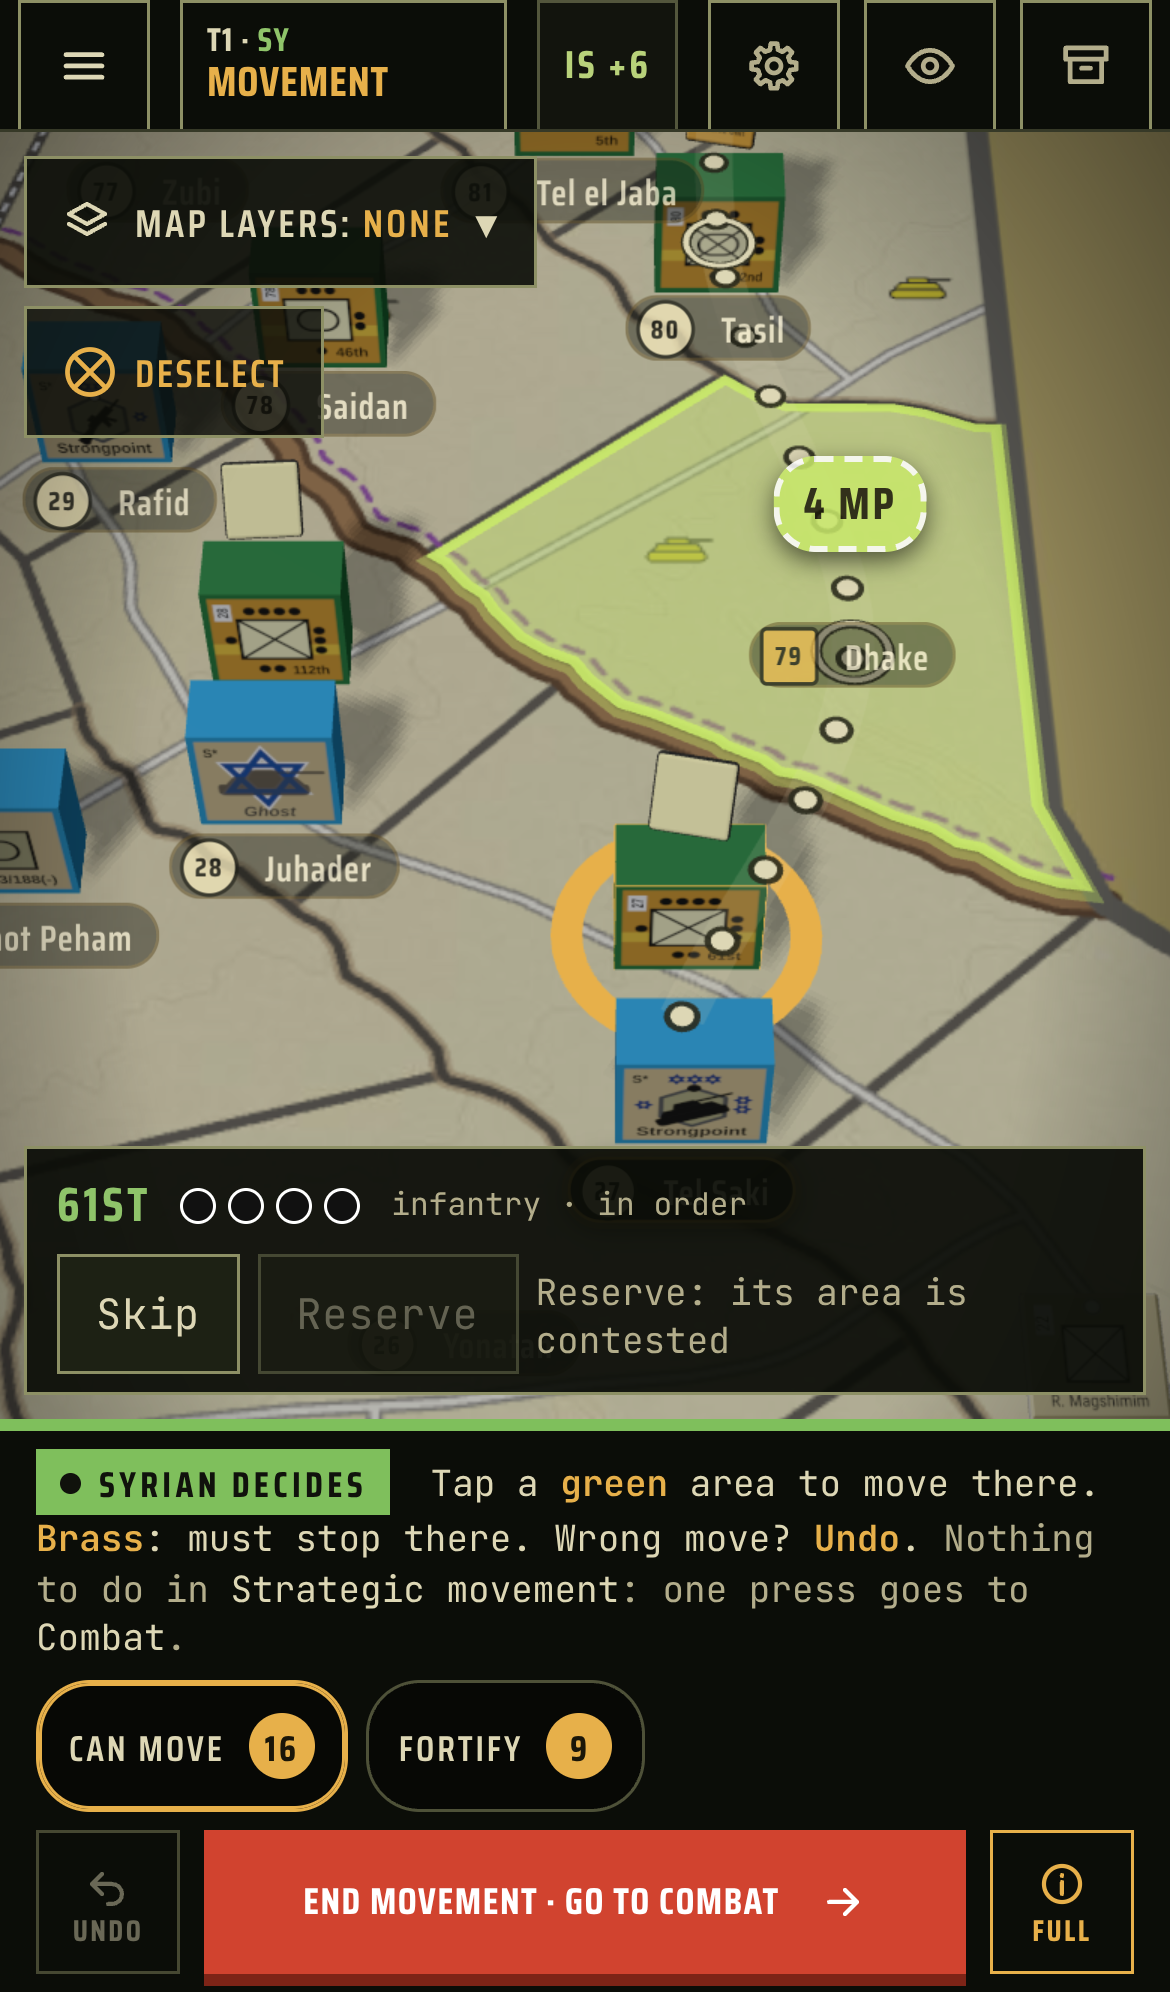
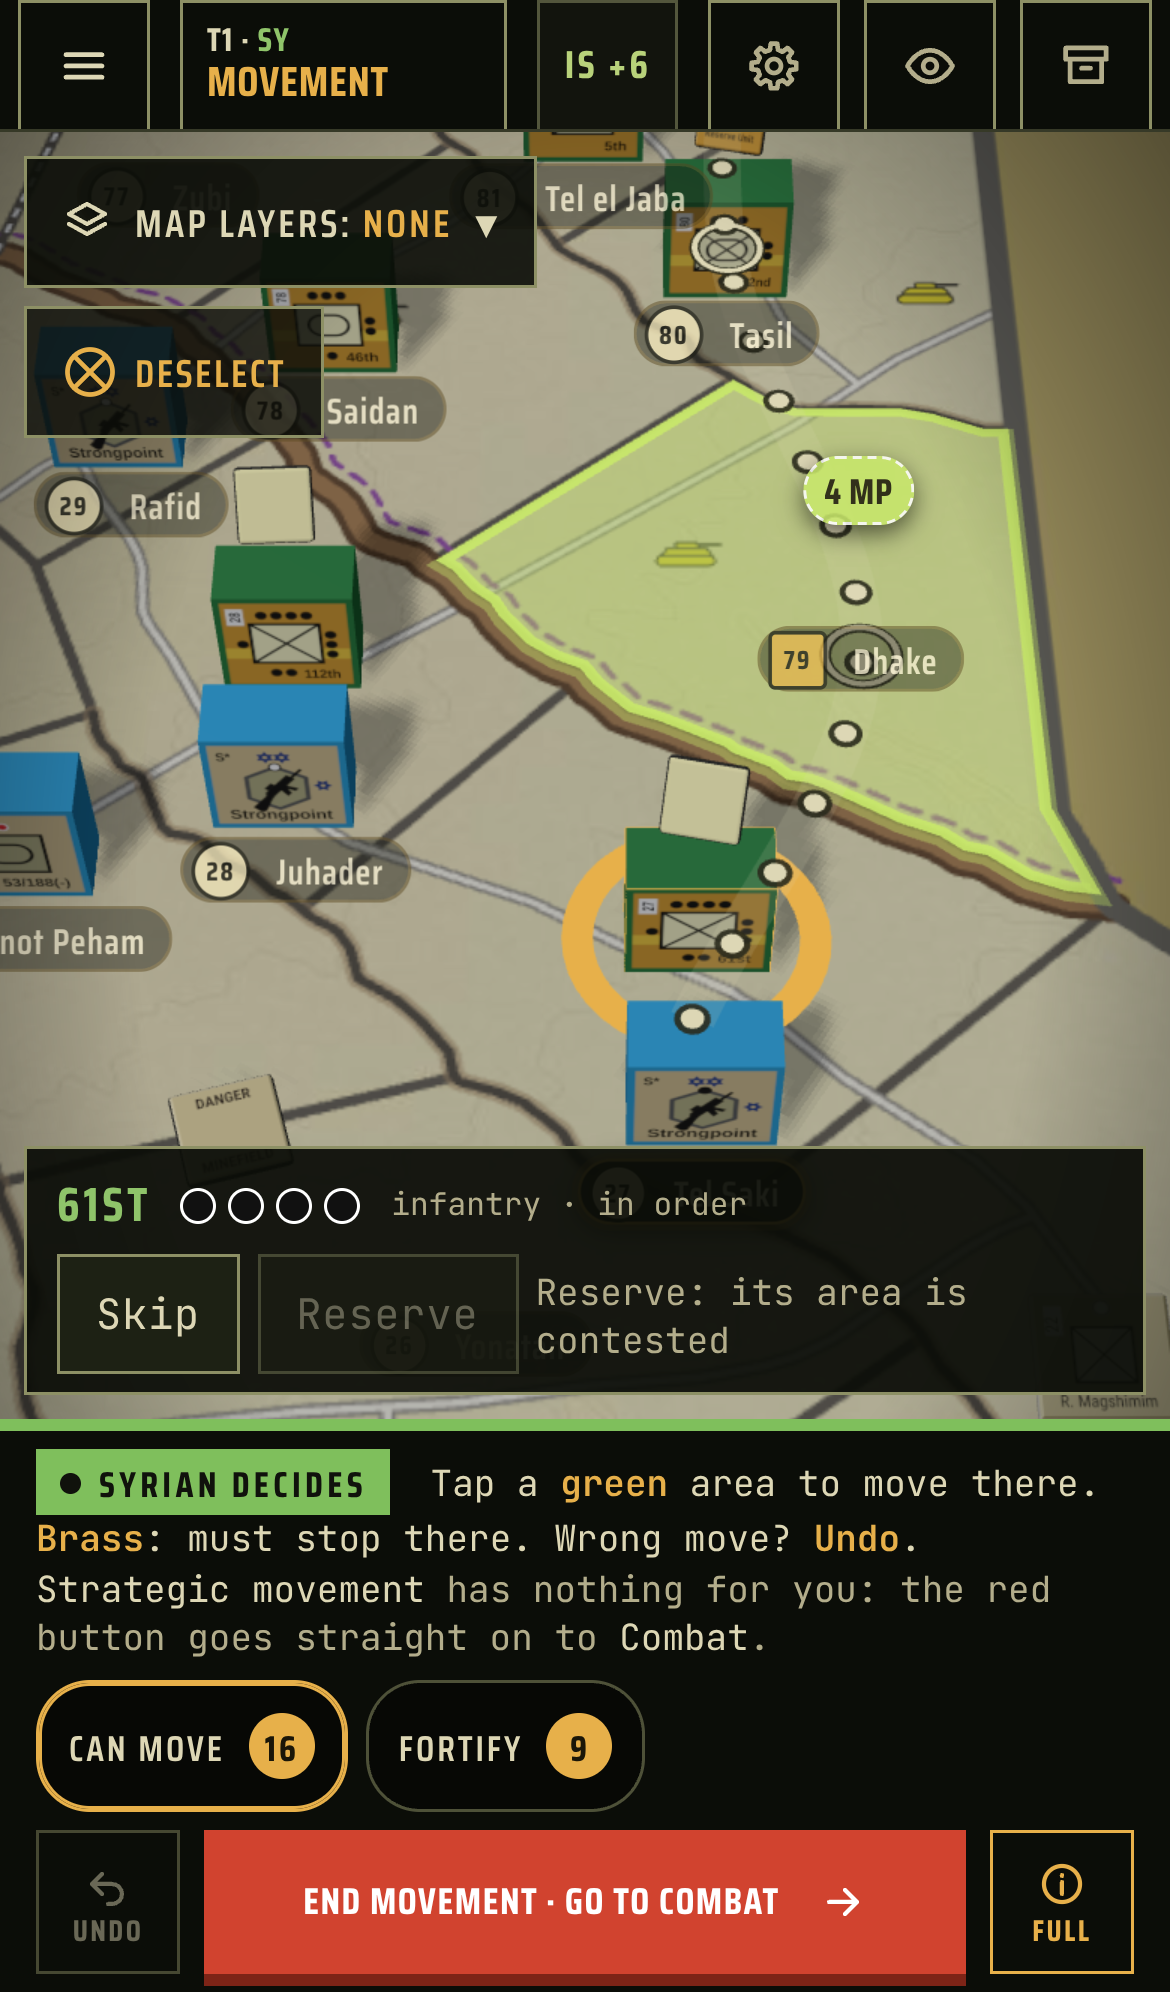
Phone fixes after the PM's check: card (i) small on the card's left edge with a 44 px tap area (it covered the picture and name); move cost badges smaller, side by side instead of piled up, kept on screen above the block card; messages on the phone are one line that fades (three cards covered Golan'
Claude-Session: https://claude.ai/code/session_01ME3JNWPCjyD5txMyWoKnu2

diff --git a/web/src/map-marks.ts b/web/src/map-marks.ts
@@ -712,7 +712,9 @@ export function placeBadges() {
   placeBubbles();
   const r = canvas.getBoundingClientRect(),
     v = new THREE.Vector3();
-  const dockBottom = (document.querySelector('#ui .mapdock')?.getBoundingClientRect().bottom ?? r.top) - r.top; // the Layer bar and map tools: move badges stay below them
+  const dockBottom = (document.querySelector('#ui .mapdock')?.getBoundingClientRect().bottom ?? r.top) - r.top, // the Layer bar and map tools: move badges stay below them
+    cardTop = innerWidth < 700 ? (document.querySelector('#ui .c-dispatch')?.getBoundingClientRect().top ?? r.bottom) - r.top : r.height, // and, on the phone, above the block card
+    placed: { x0: number; x1: number; y0: number; y1: number }[] = [];
   for (const [k, d] of badgeEls) {
     const id = +k.replace(/^[LS]/, ''),
       p = d.classList.contains('lab')
@@ -731,9 +733,37 @@ export function placeBadges() {
       hh = d.offsetHeight / 2 + 6,
       out = sx < hw || sx > r.width - hw || sy < hh || sy > r.height - hh;
     if (keep) {
-      const top = Math.max(hh, dockBottom + hh);
+      const top = Math.max(hh, dockBottom + hh),
+        bot = Math.min(r.height, cardTop) - hh;
       sx = Math.min(r.width - hw, Math.max(hw, sx));
-      sy = Math.min(r.height - hh, Math.max(top, sy));
+      sy = Math.min(bot, Math.max(top, sy));
+      const w = hw - 4,
+        h = hh - 4,
+        hit = (x: number, y: number) => placed.some((o) => x - w < o.x1 && x + w > o.x0 && y - h < o.y1 && y + h > o.y0),
+        fits = (x: number, y: number) => y >= top && y <= bot && x >= hw && x <= r.width - hw && !hit(x, y);
+      let free = fits(sx, sy);
+      for (const [ex, ey] of [
+        [0, 1],
+        [0, -1],
+        [1, 0],
+        [-1, 0],
+        [0, 2],
+        [0, -2],
+        [1, 1],
+        [-1, 1],
+        [1, -1],
+        [-1, -1],
+      ])
+        if (!free && fits(sx + ex * 2 * w, sy + ey * 2 * h)) {
+          sx += ex * 2 * w;
+          sy += ey * 2 * h;
+          free = true;
+        } // neighbouring areas' badges sit side by side instead of piling up (design review 16 Nov, phone)
+      if (!free && out && innerWidth < 700) {
+        d.style.display = 'none';
+        continue;
+      } // phone: an off-screen destination with no room left at the edge is not drawn (its area is still green)
+      placed.push({ x0: sx - w, x1: sx + w, y0: sy - h, y1: sy + h });
       d.classList.toggle('edge', out || sy !== sy0);
     } // a destination off screen keeps its tag at the edge, so no "no supply" warning is missed
     d.style.transform = `translate(${sx}px, ${sy}px) translate(-50%, -50%)`;

diff --git a/web/src/css/bottom-bar.css b/web/src/css/bottom-bar.css
@@ -571,14 +571,21 @@
     padding: 0 12px;
   }
 }
-/* phone hand: the card's (i) inside its bottom-left corner, 32 px, where the next card in the fan does not cover it (design review 16 Nov) */
+/* phone hand: the card's (i) small on its left edge under the "S", clear of the symbol and the name and never under the next card
+   (it overlaps a card's right side); an invisible 44 px tap area around it (design review 16 Nov) */
 @media (max-width: 700px) {
   #ui .card2 .cinfo {
-    left: 3px;
+    left: 1px;
     right: auto;
-    bottom: 3px;
-    width: 32px;
-    height: 32px;
-    font-size: 16px;
+    top: 24px;
+    bottom: auto;
+    width: 22px;
+    height: 22px;
+    font-size: 12px;
+  }
+  #ui .card2 .cinfo::before {
+    content: '';
+    position: absolute;
+    inset: -11px;
   }
 }

diff --git a/web/src/choices.ts b/web/src/choices.ts
@@ -41,7 +41,7 @@ export function feedHtml(): string {
       if (feed.some((f) => Date.now() - f.t >= 9000)) render();
     }, 9100);
   return feed.length
-    ? `<div class="feed ${g.phase === 'admin' || g.phase === 'reinforcement' ? 'top' : ''}" aria-live="polite">${feed.map((f) => `<div class="fl2 ${f.side}" style="animation-delay:${-(now - f.t) / 1000}s">${sideTag(f.text)}</div>`).join('')}</div>`
+    ? `<div class="feed ${g.phase === 'admin' || g.phase === 'reinforcement' ? 'top' : ''}" aria-live="polite">${(innerWidth < 700 ? feed.slice(-1) : feed).map((f) => `<div class="fl2 ${f.side}" style="animation-delay:${-(now - f.t) / 1000}s">${sideTag(f.text)}</div>`).join('')}</div>`
     : '';
 }
 export let scoreOpen = false,

diff --git a/web/src/css/bars.css b/web/src/css/bars.css
@@ -250,6 +250,9 @@
   .feed .fl2 {
     font-size: 11.5px;
     padding: 3px 8px;
+    white-space: nowrap;
+    overflow: hidden;
+    text-overflow: ellipsis; /* one short line that fades, never a card over the map (design review 16 Nov; owner, 15 Nov) */
   }
 }
 .rdet {
@@ -423,5 +426,16 @@
     min-height: 36px;
     padding: 4px 12px;
     font-size: 13px;
+  }
+}
+/* phone: smaller move badges, so neighbouring areas' costs fit side by side (design review 16 Nov) */
+@media (max-width: 700px) {
+  #badges .bdg.ok,
+  #badges .bdg.stop,
+  #badges .bdg.fuel {
+    padding: 1px 6px;
+    font-size: 12px;
+    letter-spacing: 0.02em;
+    border-width: 1.5px;
   }
 }
